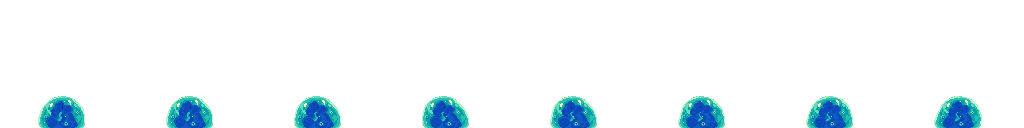
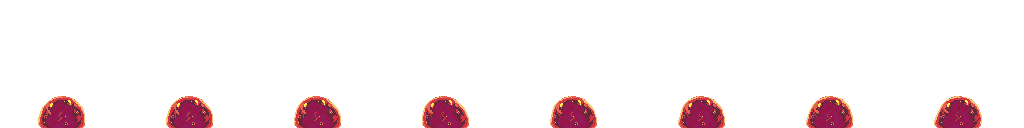
슬라임 범위 내 진입 시 슬라임 공격

diff --git a/slime_attack.py b/slime_attack.py
@@ -1,0 +1,45 @@
+from pico2d import *
+import game_world
+import game_framework
+from game_world import remove_object
+
+PIXEL_PER_METER = (10.0 / 0.3)  # 10 pixel 30 cm
+RUN_SPEED_KMPH = 5.0  # Km / Hour
+RUN_SPEED_MPM = (RUN_SPEED_KMPH * 1000.0 / 60.0)
+RUN_SPEED_MPS = (RUN_SPEED_MPM / 60.0)
+RUN_SPEED_PPS = (RUN_SPEED_MPS * PIXEL_PER_METER)
+
+PIXEL_PER_METER = (1.0 / 0.003)  # 1pixel = 3cm, 1m = 33.33 pixel
+
+class Slime_Attack:
+    image = None
+
+    def __init__(self, x = 400, y = 300, dir = 1, target_x = 400, target_y = 300):
+        if Slime_Attack.image == None:
+            Slime_Attack.image = load_image('Slime_attack.png')
+        self.dir = dir
+        self.size = 50
+        self.x, self.y = x, y
+        self.sx, self.sy = self.x, self.y
+        self.tx, self.ty = target_x, target_y
+        self.t = 0.0
+
+    def draw(self):
+        self.image.draw(self.x, self.y, self.size, self.size)
+        draw_rectangle(*self.get_bb())
+
+    def update(self):
+        self.t += game_framework.frame_time / 1.0
+        if self.t < 1.0:
+            self.x = self.sx * (1.0 - self.t) + (self.tx * self.t)
+            self.y = self.sy * (1.0 - self.t) + (self.ty * self.t)
+        else:
+            self.x, self.y = self.tx, self.ty
+            game_world.remove_object(self)
+
+    def get_bb(self):
+        return self.x - self.size//2, self.y - self.size//2, self.x + self.size//2, self.y + self.size//2
+
+    def handle_collision(self, group, other):
+        if group == 'slime:attack':
+            pass

diff --git a/slime.py b/slime.py
@@ -1,6 +1,8 @@
 import random
 import game_framework
 import game_world
+import play_mode
+from slime_attack import Slime_Attack
 
 from pico2d import *
 
@@ -36,6 +38,8 @@ class SLIME:
 
         self.change_timer = random.uniform(1.0, 3.0)
 
+        self.attack_time = get_time()
+
     def get_bb(self):
         return self.x - 30, self.y - 50, self.x + 30, self.y
 
@@ -62,6 +66,8 @@ class SLIME:
             self.y = clamp(half_h, self.y, 600 - half_h)
             self.dir_y *= -1
 
+        if self.x + 100 >= play_mode.player.x - 50 and self.x - 100 <= play_mode.player.x + 40 and self.y + 70 >= play_mode.player.y - 50 and self.y - 120 <= play_mode.player.y + 40:
+            self.attack()
 
     def draw(self):
         if SLIME.image is None:
@@ -72,6 +78,14 @@ class SLIME:
         else:
             SLIME.image.clip_draw(sx, 0, 128, 128, self.x, self.y, self.draw_w, self.draw_h)
         draw_rectangle(*self.get_bb())
+        draw_rectangle(self.x - 100, self.y - 120, self.x + 100, self.y+70)
+
+    def attack(self):
+        if get_time() - self.attack_time > 3.0:
+            self.attack_time = get_time()
+            attack = Slime_Attack(self.x, self.y, self.dir_x, play_mode.player.x, play_mode.player.y)
+            game_world.add_object(attack, 1)
+            game_world.add_collision_pair('player:slime_attack', None, attack)
 
     def handle_event(self, event):
         pass

diff --git a/play_mode.py b/play_mode.py
@@ -55,6 +55,8 @@ def init():
     P_slimes = green_slimes + blue_slimes
     game_world.add_objects(P_slimes, 1)
 
+    game_world.add_collision_pair('player:slime_attack', player, None)
+
     for slime in P_slimes:
         game_world.add_collision_pair('slime:catch', slime, None)
 
